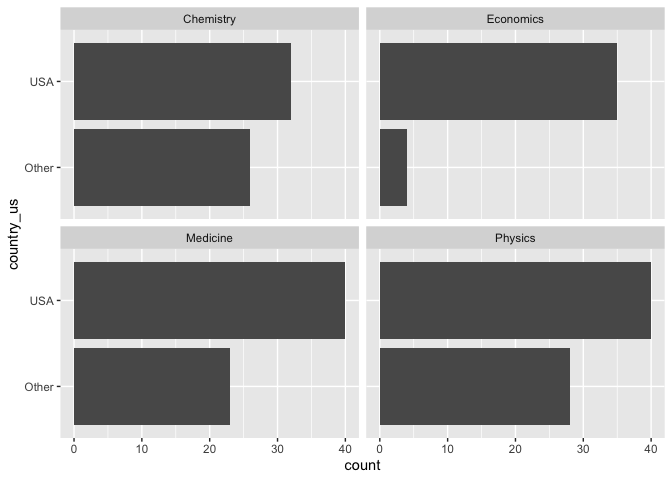
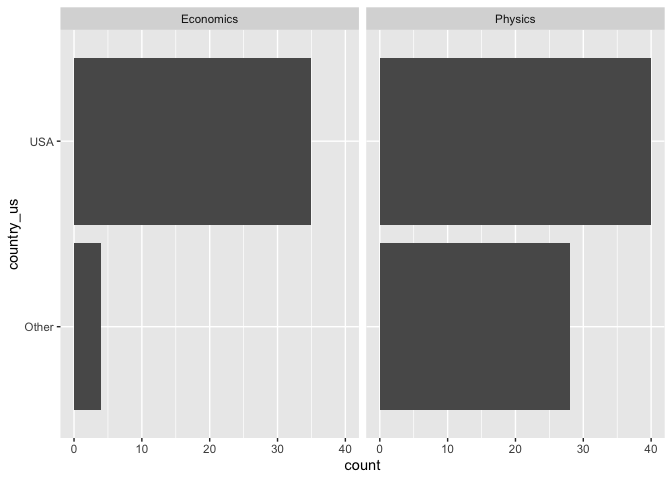
all answers added

diff --git a/lab-03.md b/lab-03.md
@@ -17,36 +17,47 @@ nobel <- read_csv("data/nobel.csv")
 
 ### Exercise 1
 
-Remove this text, and add your answer for Exercise 1 here. Add code
-chunks as needed. Don’t forget to label your code chunk. Do not use
-spaces in code chunk labels.
+Take a look at the dataset.
 
 ``` r
-nobel
+glimpse(nobel)
 ```
 
-    ## # A tibble: 935 × 26
-    ##       id firstname   surname  year category affiliation city  country born_date 
-    ##    <dbl> <chr>       <chr>   <dbl> <chr>    <chr>       <chr> <chr>   <date>    
-    ##  1     1 Wilhelm Co… Röntgen  1901 Physics  Munich Uni… Muni… Germany 1845-03-27
-    ##  2     2 Hendrik A.  Lorentz  1902 Physics  Leiden Uni… Leid… Nether… 1853-07-18
-    ##  3     3 Pieter      Zeeman   1902 Physics  Amsterdam … Amst… Nether… 1865-05-25
-    ##  4     4 Henri       Becque…  1903 Physics  École Poly… Paris France  1852-12-15
-    ##  5     5 Pierre      Curie    1903 Physics  École muni… Paris France  1859-05-15
-    ##  6     6 Marie       Curie    1903 Physics  <NA>        <NA>  <NA>    1867-11-07
-    ##  7     6 Marie       Curie    1911 Chemist… Sorbonne U… Paris France  1867-11-07
-    ##  8     8 Lord        Raylei…  1904 Physics  Royal Inst… Lond… United… 1842-11-12
-    ##  9     9 Philipp     Lenard   1905 Physics  Kiel Unive… Kiel  Germany 1862-06-07
-    ## 10    10 J.J.        Thomson  1906 Physics  University… Camb… United… 1856-12-18
-    ## # ℹ 925 more rows
-    ## # ℹ 17 more variables: died_date <date>, gender <chr>, born_city <chr>,
-    ## #   born_country <chr>, born_country_code <chr>, died_city <chr>,
-    ## #   died_country <chr>, died_country_code <chr>, overall_motivation <chr>,
-    ## #   share <dbl>, motivation <chr>, born_country_original <chr>,
-    ## #   born_city_original <chr>, died_country_original <chr>,
-    ## #   died_city_original <chr>, city_original <chr>, country_original <chr>
+    ## Rows: 935
+    ## Columns: 26
+    ## $ id                    <dbl> 1, 2, 3, 4, 5, 6, 6, 8, 9, 10, 11, 12, 13, 14, 1…
+    ## $ firstname             <chr> "Wilhelm Conrad", "Hendrik A.", "Pieter", "Henri…
+    ## $ surname               <chr> "Röntgen", "Lorentz", "Zeeman", "Becquerel", "Cu…
+    ## $ year                  <dbl> 1901, 1902, 1902, 1903, 1903, 1903, 1911, 1904, …
+    ## $ category              <chr> "Physics", "Physics", "Physics", "Physics", "Phy…
+    ## $ affiliation           <chr> "Munich University", "Leiden University", "Amste…
+    ## $ city                  <chr> "Munich", "Leiden", "Amsterdam", "Paris", "Paris…
+    ## $ country               <chr> "Germany", "Netherlands", "Netherlands", "France…
+    ## $ born_date             <date> 1845-03-27, 1853-07-18, 1865-05-25, 1852-12-15,…
+    ## $ died_date             <date> 1923-02-10, 1928-02-04, 1943-10-09, 1908-08-25,…
+    ## $ gender                <chr> "male", "male", "male", "male", "male", "female"…
+    ## $ born_city             <chr> "Remscheid", "Arnhem", "Zonnemaire", "Paris", "P…
+    ## $ born_country          <chr> "Germany", "Netherlands", "Netherlands", "France…
+    ## $ born_country_code     <chr> "DE", "NL", "NL", "FR", "FR", "PL", "PL", "GB", …
+    ## $ died_city             <chr> "Munich", NA, "Amsterdam", NA, "Paris", "Sallanc…
+    ## $ died_country          <chr> "Germany", "Netherlands", "Netherlands", "France…
+    ## $ died_country_code     <chr> "DE", "NL", "NL", "FR", "FR", "FR", "FR", "GB", …
+    ## $ overall_motivation    <chr> NA, NA, NA, NA, NA, NA, NA, NA, NA, NA, NA, NA, …
+    ## $ share                 <dbl> 1, 2, 2, 2, 4, 4, 1, 1, 1, 1, 1, 1, 2, 2, 1, 1, …
+    ## $ motivation            <chr> "\"in recognition of the extraordinary services …
+    ## $ born_country_original <chr> "Prussia (now Germany)", "the Netherlands", "the…
+    ## $ born_city_original    <chr> "Lennep (now Remscheid)", "Arnhem", "Zonnemaire"…
+    ## $ died_country_original <chr> "Germany", "the Netherlands", "the Netherlands",…
+    ## $ died_city_original    <chr> "Munich", NA, "Amsterdam", NA, "Paris", "Sallanc…
+    ## $ city_original         <chr> "Munich", "Leiden", "Amsterdam", "Paris", "Paris…
+    ## $ country_original      <chr> "Germany", "the Netherlands", "the Netherlands",…
+
+935 observations and 26 variables are in the dataset. Each row
+represents a noble prize winner.
 
 ### Exercise 2
+
+Filter out the living noble prize winner:
 
 ``` r
 nobel_living <- filter(nobel, is.na(died_date),
@@ -76,6 +87,10 @@ nobel_living
     ## #   born_city_original <chr>, died_country_original <chr>,
     ## #   died_city_original <chr>, city_original <chr>, country_original <chr>
 
+Now we are left of only 228 observations.
+
+Create a new variable country_us (laureates won the prize in US):
+
 ``` r
 nobel_living <- nobel_living %>%
   mutate(
@@ -83,12 +98,16 @@ nobel_living <- nobel_living %>%
   )
 ```
 
+Filter out the four categories (Physics, Physics, Physics, Economics):
+
 ``` r
 nobel_living_science <- nobel_living %>%
-  filter(category %in% c("Physics", "Medicine", "Chemistry", "Economics"))
+  filter(category %in% c("Physics", "Physics", "Physics", "Economics"))
 ```
 
 ### Exercise 3
+
+Create a bar plot of US and Other laureates for the four categories:
 
 ``` r
 ggplot(nobel_living_science, aes(x =country_us)) +
@@ -105,6 +124,9 @@ which means that USA is the main country for noble laureates.
 
 ### Exercise 4
 
+Create a new variable born_country to categorize the laureates into US
+born or Other born.
+
 ``` r
 nobel_living_science <- nobel_living_science %>%
   mutate(
@@ -116,11 +138,14 @@ nobel_living_science %>%
   nrow()
 ```
 
-    ## [1] 105
+    ## [1] 57
 
 105 of the winners were born in the US.
 
 ### Exercise 5
+
+Create a bar plot depicting the born countries of the US and Other
+laureates.
 
 ``` r
 ggplot(nobel_living_science, aes(x = country_us, 
@@ -138,4 +163,27 @@ US born winners, especially for the economics.
 
 ### Exercise 6
 
-…
+Take a look at the born countries of the Other laureates.
+
+``` r
+nobel_living_science %>%
+  filter(country_us == "USA", born_country_us == "Other") %>%
+  count(born_country) %>%
+  arrange(desc(n))
+```
+
+    ## # A tibble: 9 × 2
+    ##   born_country       n
+    ##   <chr>          <int>
+    ## 1 Germany            4
+    ## 2 United Kingdom     4
+    ## 3 China              3
+    ## 4 Canada             2
+    ## 5 Japan              2
+    ## 6 Norway             2
+    ## 7 Finland            1
+    ## 8 Israel             1
+    ## 9 Scotland           1
+
+Germany is the most common born country for US immgirant noble prize
+winner, not a surprise given the Nazi situation.
